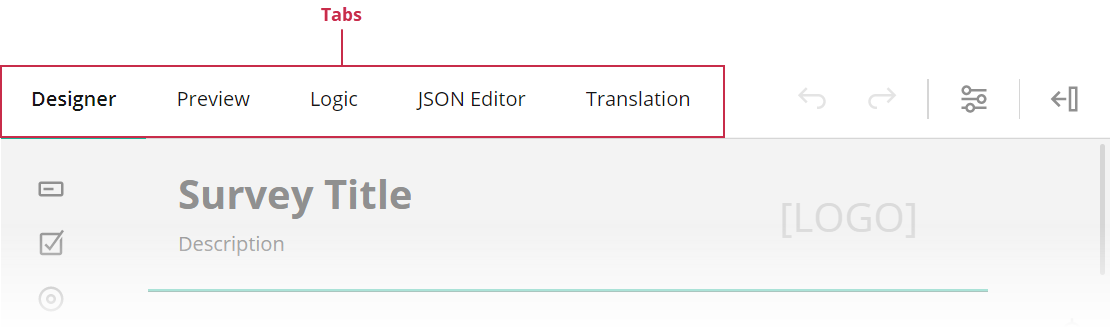
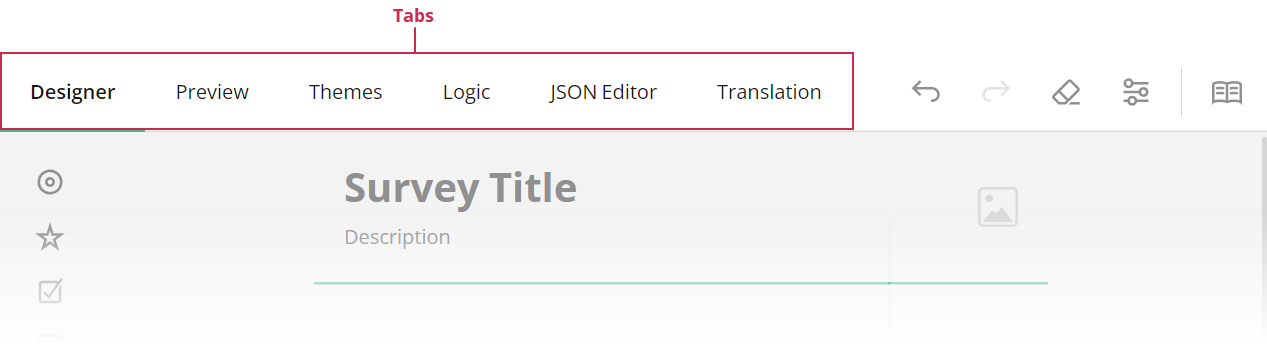
Add Theme Editor documentation

diff --git a/docs/theme-editor.md b/docs/theme-editor.md
@@ -1,0 +1,91 @@
+---
+title: Theme Editor | JavaScript Form Builder by SurveyJS
+description: Customize themes in a user-friendly interface to build a theme that engages your respondents and reinforces your brand perception.
+---
+
+# Theme Editor
+
+When you create a survey, you want it to look harmonious and consistent with other parts of your application. You can achieve this with Theme Editor, a tool that enables you to create and customize survey UI themes.
+
+<img src="images/theme-editor.png" alt="SurveyJS Theme Editor">
+
+Theme Editor is available online in our [all-in-one demo](/create-free-survey) or as part of Survey Creator. This article describes how to enable Theme Editor in Survey Creator, apply a custom theme to your survey, and set up communication with a server to enable your users to create, apply, and switch themes in your application.
+
+## Enable Theme Editor in Survey Creator
+
+Theme Editor is integrated into Survey Creator as a separate tab. To display the tab, set the [`showThemeTab`](https://surveyjs.io/survey-creator/documentation/api-reference/survey-creator#showThemeTab) property to `true`:
+
+```js
+import { SurveyCreatorModel } from "survey-creator-core";
+const creatorOptions = {
+  // ...
+  showThemeTab: true
+};
+const creator = new SurveyCreatorModel(creatorOptions);
+```
+
+## Apply a Custom Theme
+
+Theme Editor produces a JSON object with CSS variables and other theme settings. For information on how to obtain this object and apply it to a survey, refer to the following help topic in Form Library documentation: [Create a Custom Theme](/form-library/documentation/manage-default-themes-and-styles#create-a-custom-theme).
+
+## Save and Load Custom Themes
+
+Theme JSON objects can be persisted on your server to let users save, share, and restore custom themes or switch between them. To save a theme JSON object, implement the `saveThemeFunc` function. It accepts two arguments:
+
+- `saveNo`      
+An incremental number of the current change. Since web services are asynchronous, you cannot guarantee that the service receives the changes in the same order as the client sends them. For example, change #11 may arrive to the server faster than change #10. In your web service code, update the storage only if you receive changes with a higher `saveNo`.
+
+- `callback`        
+A callback function. Call it and pass `saveNo` as the first argument. Set the second argument to `true` or `false` based on whether the server applied or rejected the change.
+
+The following code shows how to use the `saveThemeFunc` function to save a survey model schema in a <a href="https://developer.mozilla.org/en-US/docs/Web/API/Window/localStorage" target="_blank">`localStorage`</a> or in your web service:
+
+```js
+
+import { SurveyCreatorModel } from "survey-creator-core";
+const creatorOptions = {
+  // ...
+  showThemeTab: true
+};
+const creator = new SurveyCreatorModel(creatorOptions);
+
+creator.saveThemeFunc = (saveNo, callback) => { 
+  // If you use localStorage:
+  window.localStorage.setItem("survey-theme-json", creator.theme);
+  callback(saveNo, true);
+
+  // If you use a web service:
+  saveThemeJson(
+      "https://your-web-service.com/",
+      creator.theme,
+      saveNo,
+      callback
+  );
+};
+
+// If you use a web service:
+function saveThemeJson(url, json, saveNo, callback) {
+  const request = new XMLHttpRequest();
+  request.open('POST', url);
+  request.setRequestHeader('Content-Type', 'application/json;charset=UTF-8');
+  request.addEventListener('load', () => {
+      callback(saveNo, true);
+  });
+  request.addEventListener('error', () => {
+      callback(saveNo, false);
+  });
+  request.send(JSON.stringify(json));
+}
+```
+
+To load a theme JSON object into Theme Editor, assign the object to Survey Creator's [`theme`](https://surveyjs.io/survey-creator/documentation/api-reference/survey-creator#theme) property. The following code takes a theme JSON object from the `localStorage`:
+
+
+```js
+creator.theme = window.localStorage.getItem("survey-theme-json");
+```
+
+## See Also
+
+- [Themes & Styles](/form-library/documentation/manage-default-themes-and-styles)
+- Save and Load Survey Model Schemas: [Angular](https://surveyjs.io/survey-creator/documentation/get-started-angular#save-and-load-survey-model-schemas) | [Vue](https://surveyjs.io/survey-creator/documentation/get-started-vue#save-and-load-survey-model-schemas) | [React](https://surveyjs.io/survey-creator/documentation/get-started-react#save-and-load-survey-model-schemas) | [Knockout / jQuery](https://surveyjs.io/survey-creator/documentation/get-started-knockout-jquery)

diff --git a/docs/End-User-Guide.md b/docs/End-User-Guide.md
@@ -1,3 +1,8 @@
+---
+title: End-User Documentation | JavaScript Survey Creator by SurveyJS
+description: Help your end users quickly get started with the Survey Creator component and ensure its proper usage.
+---
+
 # End-User Documentation for Survey Creator
 
 This document illustrates how to perform basic tasks in the Survey Creator component. The component's UI is organized in multiple tabs. Each section in this document describes an individual tab.
@@ -5,11 +10,12 @@ This document illustrates how to perform basic tasks in the Survey Creator compo
 <img src="images/survey-creator-tabs.png" alt="Survey Creator - Tabs" width="100%" usemap="#tabs-map">
 
 <map name="tabs-map">
-    <area alt="Designer Tab" title="Designer Tab" href="#designer-tab" coords="16,54,91,86" shape="rect">
-    <area alt="Preview Tab" title="Preview Tab" href="#preview-tab" coords="120,54,185,86" shape="rect">
-    <area alt="Logic Tab" title="Logic Tab" href="#logic-tab" coords="210,54,255,86" shape="rect">
-    <area alt="JSON Editor Tab" title="JSON Editor Tab" href="#json-editor-tab" coords="290,54,370,86" shape="rect">
-    <area alt="Translation Tab" title="Translation Tab" href="#translation-tab" coords="400,54,490,86" shape="rect">
+    <area alt="Designer Tab" title="Designer Tab" href="#designer-tab" coords="5,56,147,126" shape="rect">
+    <area alt="Preview Tab" title="Preview Tab" href="#preview-tab" coords="150,56,278,126" shape="rect">
+    <area alt="Themes Tab" title="Themes Tab" href="#themes-tab" coords="280,55,413,127" shape="rect">
+    <area alt="Logic Tab" title="Logic Tab" href="#logic-tab" coords="415,57,525,126" shape="rect">
+    <area alt="JSON Editor Tab" title="JSON Editor Tab" href="#json-editor-tab"" coords="529,57,678,124" shape="rect">
+    <area alt="Translation Tab" title="Translation Tab" href="#translation-tab" coords="689,55,849,126" shape="rect">
 </map>
 
 ## Designer Tab
@@ -308,6 +314,20 @@ After you complete the survey, you can see the survey results in the table or JS
 Click the **Device** icon and select the desired device from the drop-down menu. You can also click the **Orientation** icon to switch between the landscape and portrait orientations:
 
 <img src="images/survey-creator-preview-different-devices.png" alt="Survey Creator - Preview the survey on different devices" width="75%">
+
+## Themes Tab
+
+The Themes tab enables you to customize the applied UI theme. You can change colors, sizes, fonts, shadow effects, and other survey appearance parameters in a user-friendly interface.
+
+<img src="images/theme-editor.png" alt="Survey Creator - The Themes tab" width="100%">
+
+### How to: Save a Custom Theme
+
+SurveyJS themes are JSON objects with CSS variables and other theme settings. Once you finish customization, click the Export button to download a JSON object with your custom theme.
+
+<img src="images/theme-export.png" alt="SurveyJS Theme Export">
+
+Other capabilities depend on features implemented by your development team. For instance, the following help topic describes how developers can save themes on a server and load them from it: [Save and Load Custom Themes](/survey-creator/documentation/theme-editor#save-and-load-custom-themes).
 
 ## Logic Tab
 
